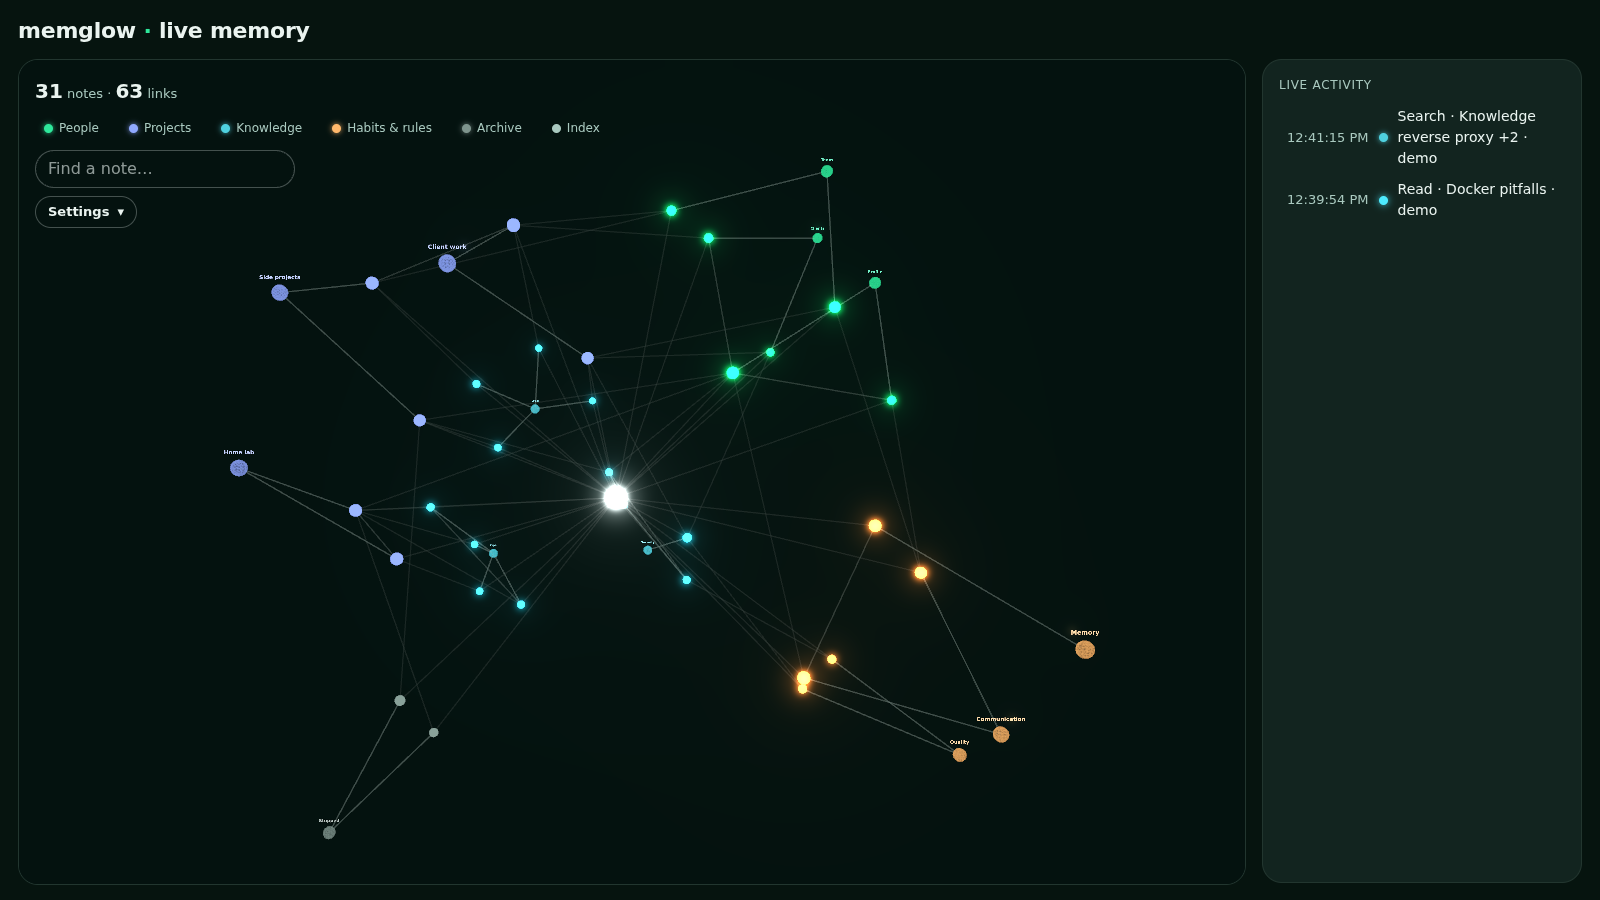
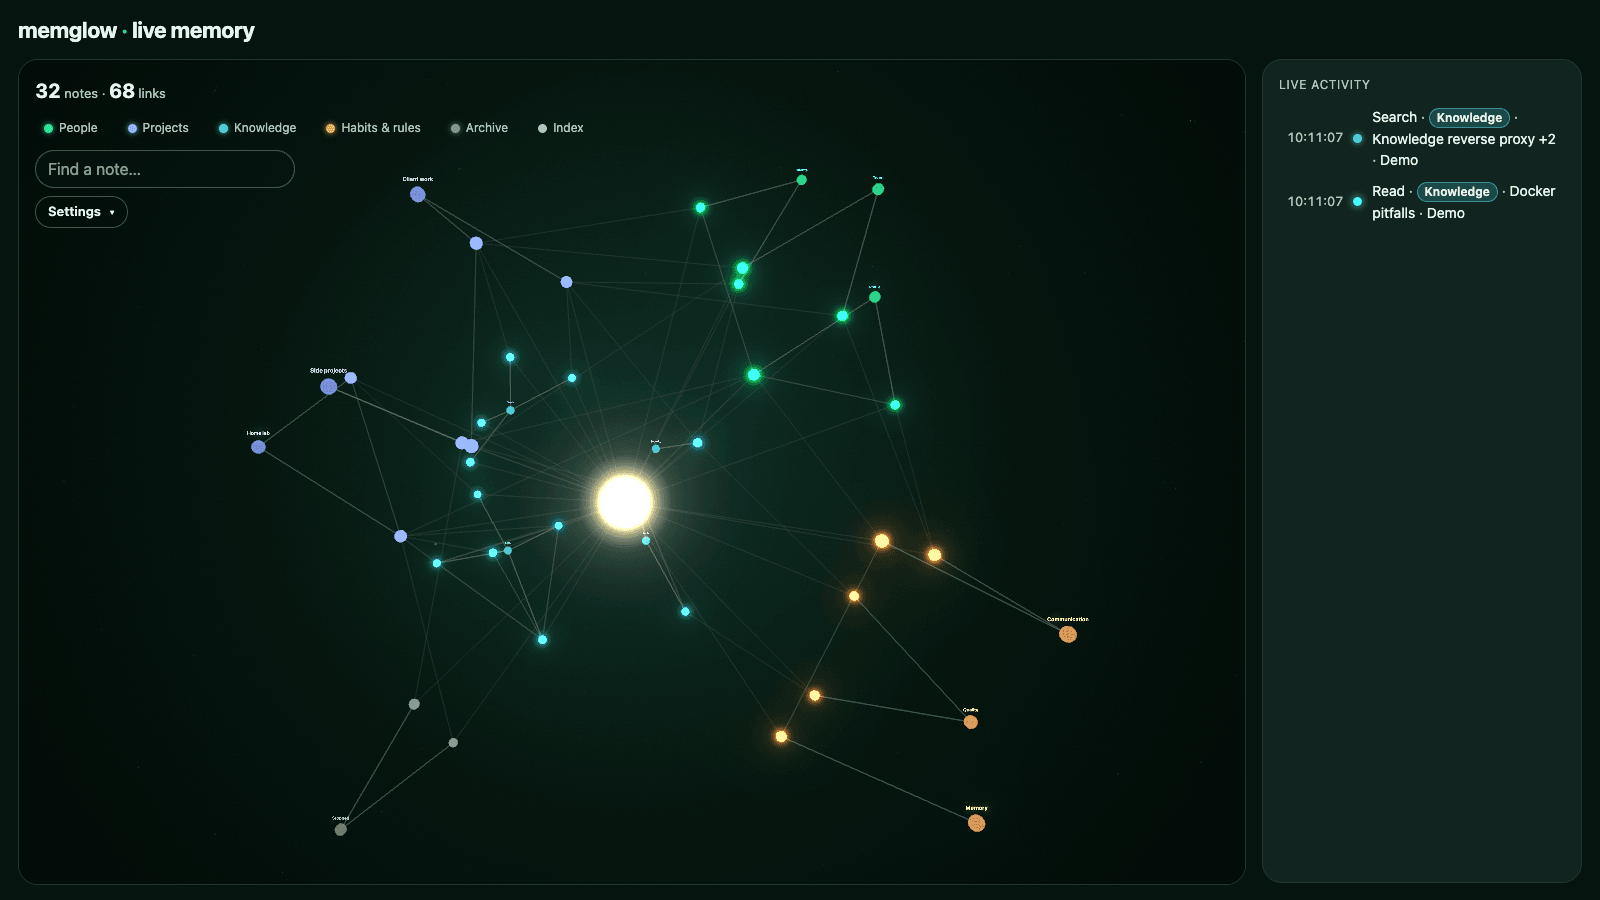
0.3.1: new screenshots (incl. Memory cost), release workflow on Node 24 actions
- README screenshots re-captured on a GPU, new Memory cost capture, TODO removed
- demo/record/screenshots.js: Memory cost scene (throw-away data dir), GPU=1 option
- release.yml: checkout@v7, setup-node@v7, Docker actions v4/v6/v7
- CHANGELOG 0.3.1 (also ships the background double-click fix f9cdff8), version 0.3.1

diff --git a/demo/record/screenshots.js b/demo/record/screenshots.js
@@ -9,8 +9,11 @@
  *     node /work/demo/record/screenshots.js /out
  *
  * Several candidates are written per scene (suffix = virtual ms after the event); pick the best.
+ * On a machine with a GPU, GPU=1 renders with the native WebGL backend instead of SwiftShader.
+ * Memory cost counts go to a throw-away data folder, never to ~/.memglow.
  */
 const fs = require("fs");
+const os = require("os");
 const path = require("path");
 const crypto = require("crypto");
 const puppeteer = require("puppeteer");
@@ -25,6 +28,8 @@ const W = Number(process.env.WIDTH) || 1600;
 const H = Number(process.env.HEIGHT) || 900;
 const TOKEN = crypto.randomBytes(24).toString("hex");
 const DT = 1000 / 60;
+const GPU = process.env.GPU === "1";
+const DATA_DIR = fs.mkdtempSync(path.join(os.tmpdir(), "memglow-shots-"));
 
 // Same virtual clock as record.js (performance.now, Date, timers, rAF move only on __vstep).
 const CLOCK = fs.readFileSync(path.join(__dirname, "record.js"), "utf8").match(/const CLOCK = `([\s\S]*?)`;/)[1];
@@ -41,7 +46,7 @@ const CSS = `
 `;
 
 function startServer() {
-  const config = loadConfig({ MEMORY_DIR: path.join(ROOT, "demo", "memory"), MEMGLOW_TOKEN: TOKEN }, ROOT);
+  const config = loadConfig({ MEMORY_DIR: path.join(ROOT, "demo", "memory"), MEMGLOW_TOKEN: TOKEN, MEMGLOW_DATA_DIR: DATA_DIR }, ROOT);
   const memory = createMemory({ dir: config.memoryDir, config, pollMs: config.pollMs });
   const server = createServer(config, memory);
   return new Promise((ok) => server.listen(0, "127.0.0.1", () => ok(server)));
@@ -51,18 +56,19 @@ function startServer() {
   fs.mkdirSync(OUT, { recursive: true });
   const server = await startServer();
   const base = `http://127.0.0.1:${server.address().port}`;
-  const post = async (type, ids) => {
+  // counted = sent like real activity, so it fills Memory cost (in DATA_DIR only)
+  const post = async (type, ids, counted = false) => {
     const r = await fetch(base + "/api/activity", {
       method: "POST",
       headers: { Authorization: "Bearer " + TOKEN, "Content-Type": "application/json" },
-      body: JSON.stringify({ type, ids, source: "demo", demo: true }),
+      body: JSON.stringify(counted ? { type, ids, source: "demo" } : { type, ids, source: "demo", demo: true }),
     });
     if (r.status !== 204) throw new Error(`activity ${type} → HTTP ${r.status}`);
     await new Promise((ok) => setTimeout(ok, 300)); // let the SSE event reach the page
   };
   const browser = await puppeteer.launch({
     headless: true,
-    args: ["--no-sandbox", "--use-gl=angle", "--use-angle=swiftshader", "--enable-unsafe-swiftshader",
+    args: ["--no-sandbox", "--use-gl=angle", ...(GPU ? [] : ["--use-angle=swiftshader", "--enable-unsafe-swiftshader"]),
       "--ignore-gpu-blocklist", "--hide-scrollbars", "--force-color-profile=srgb", `--window-size=${W},${H}`],
     defaultViewport: { width: W, height: H, deviceScaleFactor: 1 },
   });
@@ -133,9 +139,39 @@ function startServer() {
     await page.evaluate(() => { document.getElementById("mem-options").open = true; });
     await step(400);
     await shot("settings");
+    await page.evaluate(() => { document.getElementById("mem-options").open = false; });
+
+    // Memory cost: a few days' worth of counted reads, the large note read most often.
+    const notes = ["reference-incident-log", "reference-docker-pitfalls", "project-smart-home", "knowledge-mqtt",
+      "project-home-lab", "reference-backups", "knowledge-reverse-proxy", "reference-git-workflow"];
+    for (let i = 0; i < 6; i++) await post("read", ["reference-incident-log"], true);
+    for (let i = 0; i < notes.length; i++) for (let k = 0; k < notes.length - i; k += 3) await post("read", [notes[i]], true);
+    await post("search", notes.slice(0, 5), true);
+    await post("write", ["project-smart-home"], true);
+    await page.reload({ waitUntil: "domcontentloaded" });
+    await wait(4000);
+    for (let i = 0; i < 100; i++) {
+      await wait(200);
+      if (await page.evaluate(() => !!document.querySelector("#mg-cost details.mg-cost__sections"))) break;
+    }
+    await page.evaluate(() => {
+      const d = document.querySelector("#mg-cost details.mg-cost__sections");
+      d.open = true;
+      document.getElementById("mg-cost").scrollIntoView({ block: "start" });
+    });
+    await step(300);
+    const box = await page.evaluate(() => {
+      const r = document.getElementById("mg-cost").getBoundingClientRect();
+      return { x: r.left + scrollX, y: r.top + scrollY, width: r.width, height: r.height };
+    });
+    const { data } = await cdp.send("Page.captureScreenshot", { format: "png", captureBeyondViewport: true,
+      clip: { x: Math.max(0, box.x - 12), y: Math.max(0, box.y - 12), width: box.width + 24, height: box.height + 24, scale: 1 } });
+    fs.writeFileSync(path.join(OUT, "cost.png"), Buffer.from(data, "base64"));
+    console.log("shot cost");
   } finally {
     await browser.close();
     server.close();
+    fs.rmSync(DATA_DIR, { recursive: true, force: true });
     process.exit(0);
   }
 })().catch((e) => { console.error("screenshots:", e); process.exit(1); });

diff --git a/docs/index.html b/docs/index.html
@@ -24,7 +24,7 @@
   "description": "Live 3D view of the Markdown memory of AI assistants (basic-memory, Obsidian vaults, any notes folder). Notes light up as Claude Code, Codex, Gemini CLI, Cursor, Windsurf, Copilot or Cline read, search and write them. Memory cost shows which notes cost the most tokens to read and which ones to split.",
   "applicationCategory": "DeveloperApplication",
   "operatingSystem": "macOS, Linux, Windows (Node.js 18+ or Docker)",
-  "softwareVersion": "0.3.0",
+  "softwareVersion": "0.3.1",
   "license": "https://opensource.org/licenses/MIT",
   "isAccessibleForFree": true,
   "offers": { "@type": "Offer", "price": "0", "priceCurrency": "USD" },

diff --git a/README.md b/README.md
@@ -60,11 +60,12 @@
     <td width="50%"><img src="docs/assets/screenshot-search.png" alt="A search: several notes light up, comets run along their links"><br><sub><b>A search</b> — the camera frames the results, comets run along the links.</sub></td>
     <td width="50%"><img src="docs/assets/screenshot-settings.png" alt="The settings panel open next to the 3D brain"><br><sub><b>Settings</b> — display, motion and links, tuned live.</sub></td>
   </tr>
+  <tr>
+    <td colspan="2"><img src="docs/assets/screenshot-cost.png" alt="The Memory cost panel: tokens read, the most expensive notes, a large note with its sections and a split suggestion"><br><sub><b>Memory cost</b> — which notes cost the most tokens, which to split, a ready prompt for your AI.</sub></td>
+  </tr>
 </table>
 
 <sub>Captured from the fictional demo memory in <code>demo/memory</code>.</sub>
-
-<!-- TODO(screenshots): add captures of the Memory cost panel and of the new Deep background (0.3.0). -->
 
 <a id="memory-cost"></a>
 ## 🪙 Memory cost
@@ -336,7 +337,7 @@ docker run -d --name memglow -p 127.0.0.1:4747:4747 \
   -v /path/to/notes:/memory:ro \
   -v memglow-data:/data \
   -e MEMGLOW_TOKEN=$(cat ~/.memglow/token) \
-  ghcr.io/r0zumnik/memglow:0.3.0
+  ghcr.io/r0zumnik/memglow:0.3.1
 ```
 
 `/data` keeps the Memory cost counts (note ids and numbers only) and the saved view (settings,
@@ -345,7 +346,7 @@ layout, camera) across restarts.
 Or with Compose: copy [`docker-compose.example.yml`](docker-compose.example.yml), set `NOTES`,
 then `docker compose up -d` — `memglow init --docker` writes one for you in `~/.memglow/`.
 
-Images for amd64 and arm64 (Apple silicon, Raspberry Pi) are published on every release; pin a version with `ghcr.io/r0zumnik/memglow:0.3.0`.
+Images for amd64 and arm64 (Apple silicon, Raspberry Pi) are published on every release; pin a version with `ghcr.io/r0zumnik/memglow:0.3.1`.
 
 The hooks and the MCP proxy run next to your AI tools, not in the container: point them at the
 container with `MEMGLOW_URL` (default `http://127.0.0.1:4747`) and the same token.
@@ -417,8 +418,8 @@ If it writes notes, memglow already sees the writes. If it uses a memory MCP ser
 <details>
 <summary><b>Does it need a GPU?</b></summary>
 
-No. Any browser with WebGL works; a few hundred notes run smoothly on a laptop. The demo GIF and
-the screenshots were rendered in software, in a headless browser without a GPU.
+No. Any browser with WebGL works; a few hundred notes run smoothly on a laptop. The demo GIF was
+rendered in software, in a headless browser without a GPU.
 </details>
 
 <details>

diff --git a/CHANGELOG.md b/CHANGELOG.md
@@ -1,5 +1,19 @@
 # Changelog
 
+## 0.3.1 — 2026-10-01
+
+### Fixed
+
+- Double-click on the background (recenter / overview) now works with Mac trackpads: the native
+  `dblclick` event is used, small pointer moves between the two clicks no longer cancel it.
+
+### Changed
+
+- New README screenshots, including the Memory cost panel and the Deep background.
+  `demo/record/screenshots.js` also captures Memory cost (counts in a throw-away data folder) and
+  can render on a GPU (`GPU=1`).
+- Release workflow on the Node 24 majors of its actions (checkout, setup-node, Docker actions).
+
 ## 0.3.0 — 2026-10-01
 
 Memory cost: see which notes cost your assistant the most tokens, and which ones to split.
